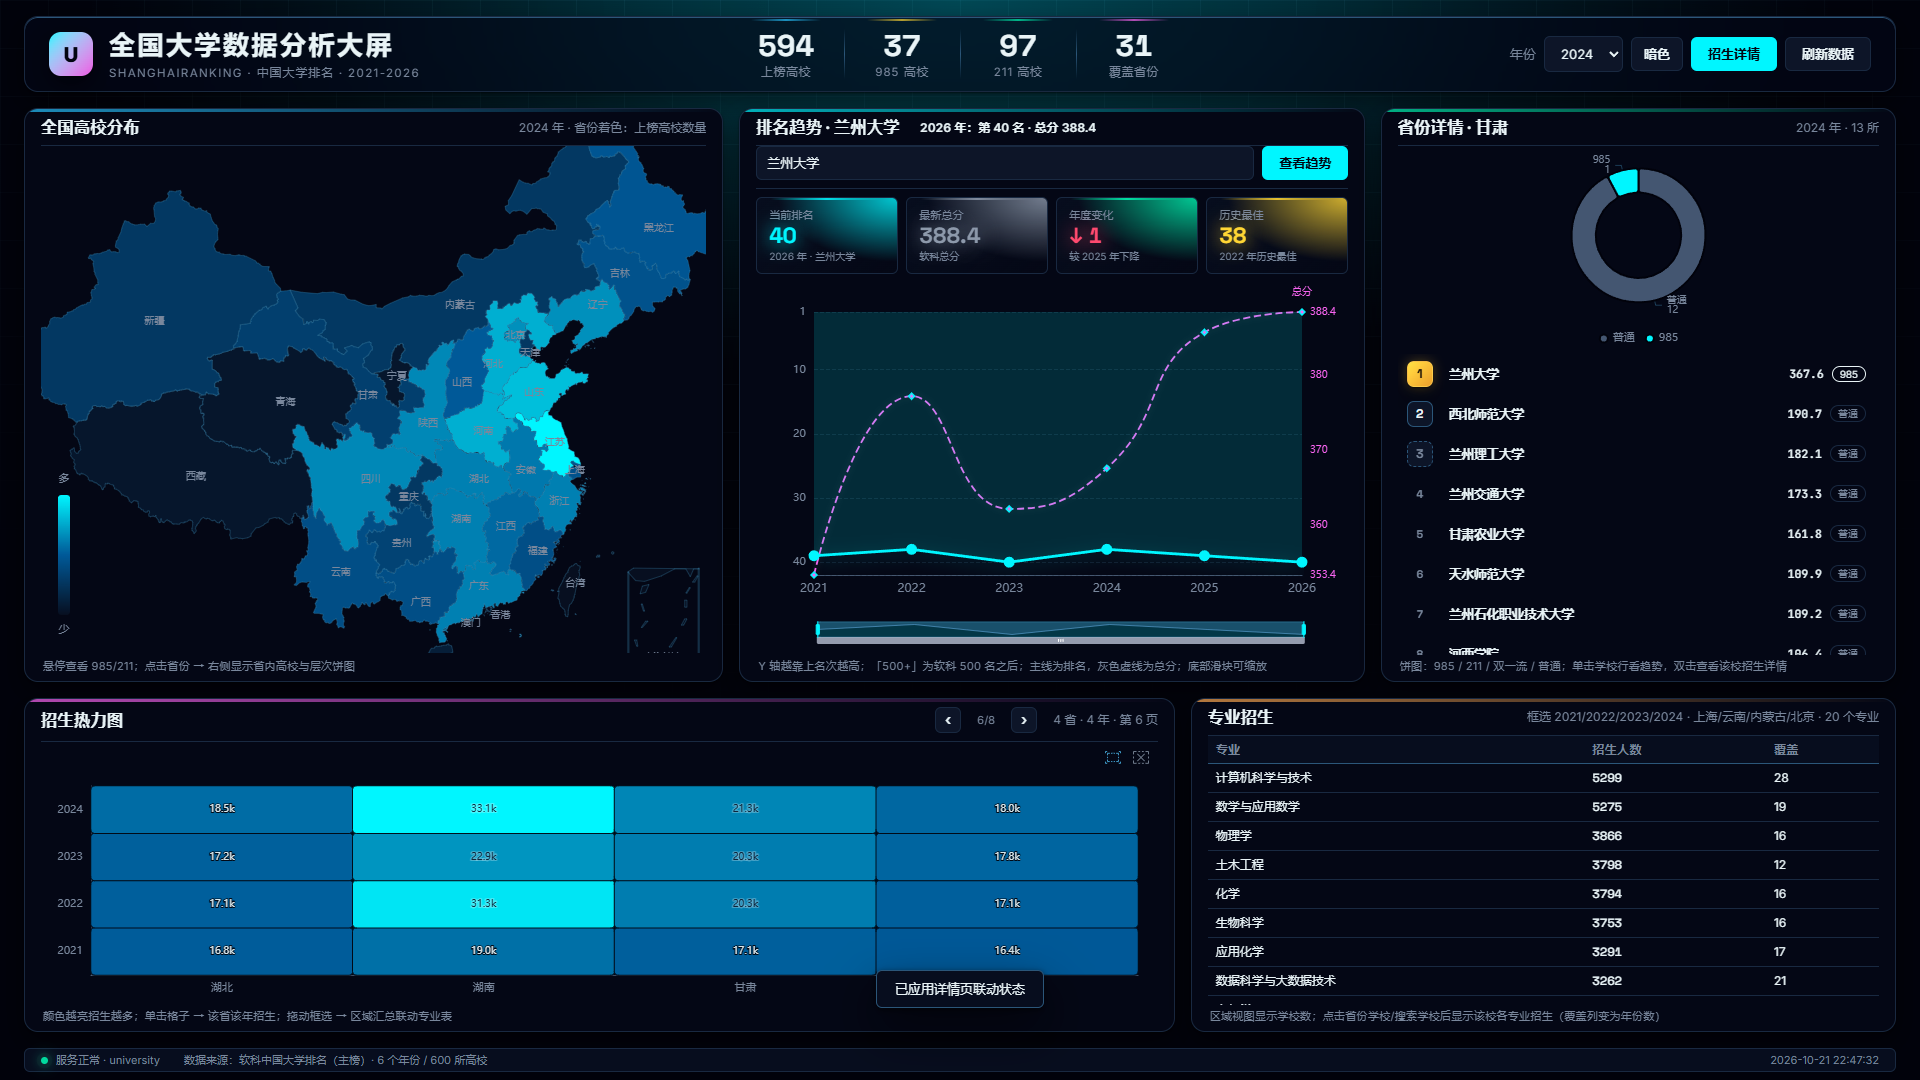
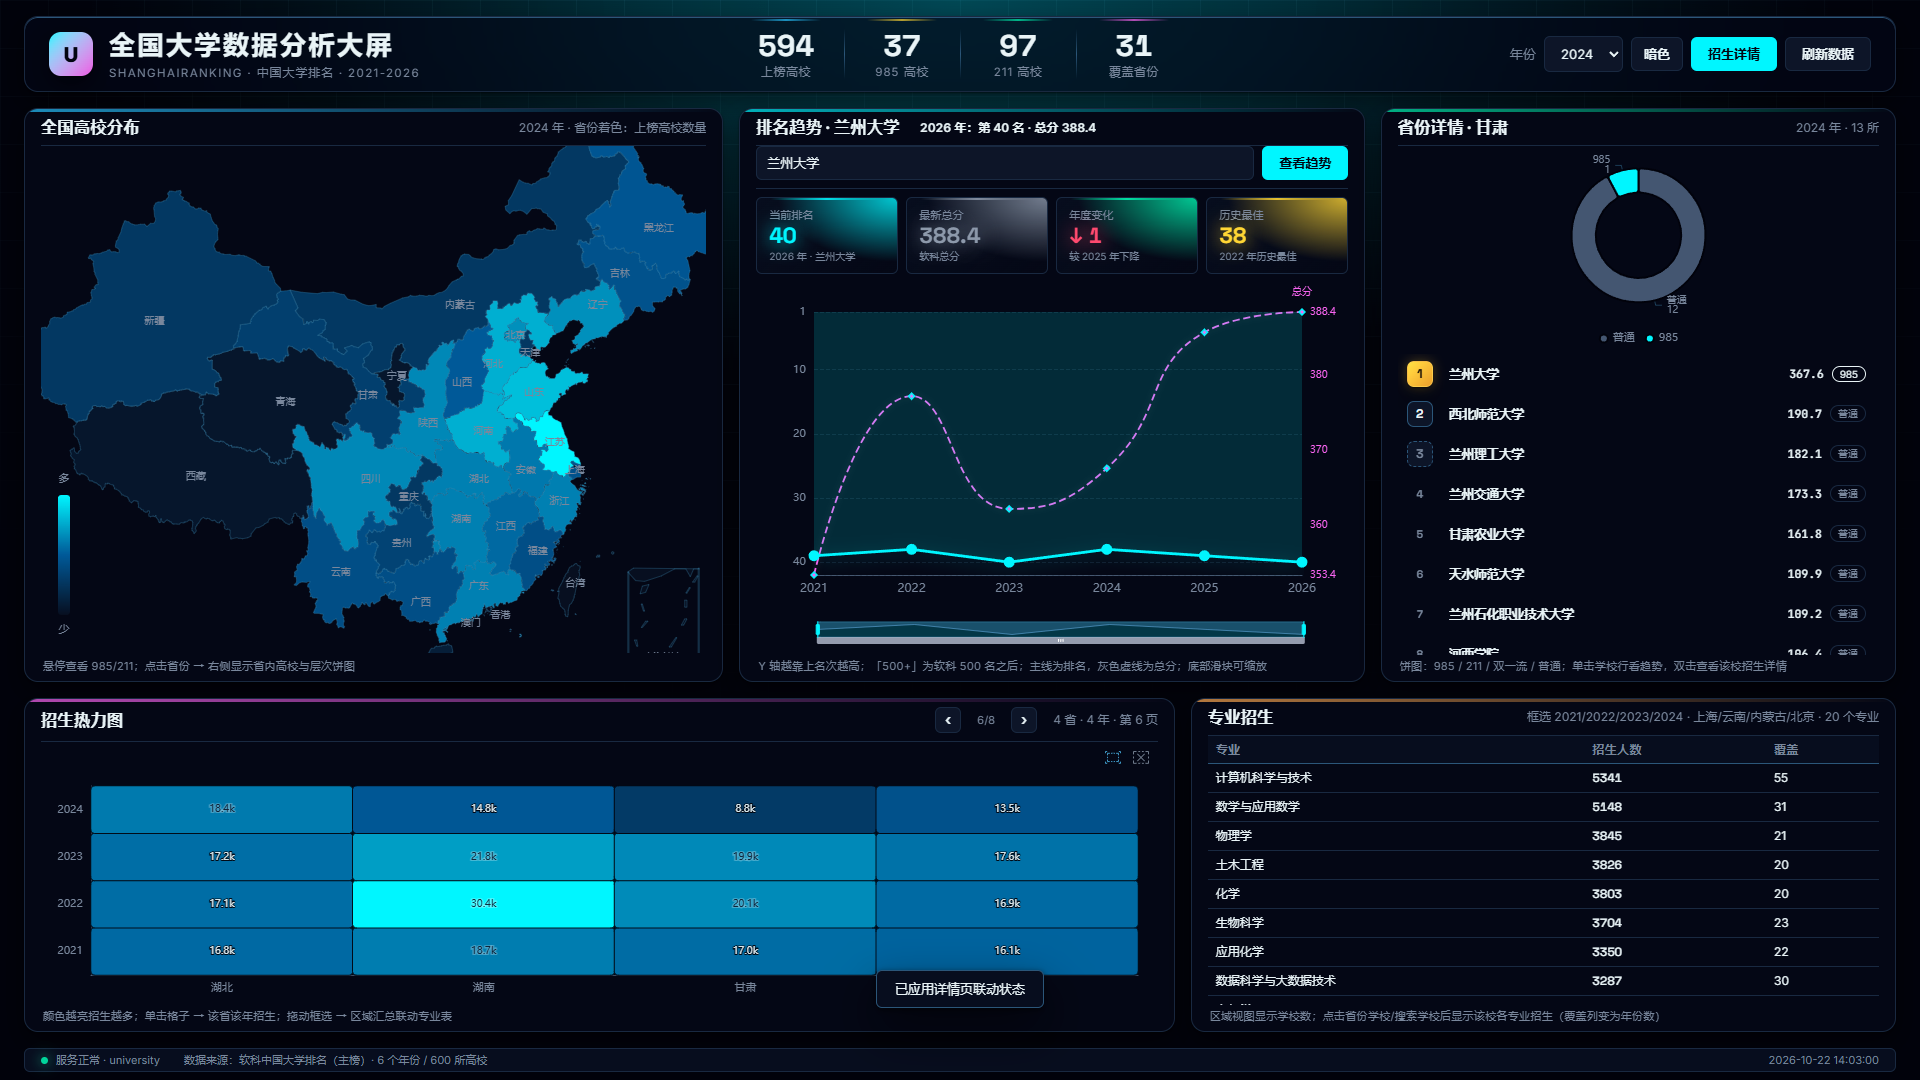
data: keep cross-province flows separate from heatmap
- admission_cross holds 2024 cross data used only by sankey

- admission 2024 keeps 22 cross provinces + 9 local fallback provinces

- loader supports --table admission_cross and province-level overlay

Changed region(s): [[0.1562, 0.7028, 0.4688, 0.7944], [0.9062, 0.9778, 0.9688, 1.0], [0.0938, 0.7333, 0.125, 0.7639]]

diff --git a/load_admission.py b/load_admission.py
@@ -165,22 +165,34 @@ def ensure_university(conn, name: str, province: str, type_: str, level: str,
     return int(cur.lastrowid)
 
 
-def load_to_mysql(df: pd.DataFrame, database: str, replace_year: int | None = None) -> dict:
+def load_to_mysql(df: pd.DataFrame, database: str, replace_year: int | None = None,
+                  overlay: bool = False, table: str = "admission") -> dict:
+    if table not in ("admission", "admission_cross"):
+        raise ValueError("非法表名")
     conn = connect()
     try:
         with conn.cursor() as cur:
             cur.execute("USE `%s`" % database)
-            if replace_year is None:
-                cur.execute("DELETE FROM admission")
+            cur.execute("CREATE TABLE IF NOT EXISTS `%s` LIKE admission" % table)
+            if overlay:
+                keys = list({(int(r.year), r.province)
+                             for r in df.itertuples(index=False)})
+                for start in range(0, len(keys), 200):
+                    chunk = keys[start:start + 200]
+                    clause = " OR ".join(["(year=%s AND province=%s)"] * len(chunk))
+                    flat = [value for key in chunk for value in key]
+                    cur.execute("DELETE FROM `%s` WHERE " % table + clause, flat)
+            elif replace_year is None:
+                cur.execute("DELETE FROM `%s`" % table)
             else:
-                cur.execute("DELETE FROM admission WHERE year = %s", (replace_year,))
-            cur.execute("ALTER TABLE admission AUTO_INCREMENT = 1")
+                cur.execute("DELETE FROM `%s` WHERE year = %%s" % table, (replace_year,))
+            cur.execute("ALTER TABLE `%s` AUTO_INCREMENT = 1" % table)
             records = [
                 (int(r.univ_id), int(r.year), r.province, r.major, int(r.count))
                 for r in df.itertuples(index=False)
             ]
             cur.executemany(
-                "INSERT INTO admission (univ_id, year, province, major, `count`) "
+                "INSERT INTO `%s` (univ_id, year, province, major, `count`) " % table +
                 "VALUES (%s, %s, %s, %s, %s)",
                 records,
             )
@@ -247,6 +259,10 @@ def main(argv=None) -> int:
     parser.add_argument("--dry-run", action="store_true")
     parser.add_argument("--replace-year", type=int, default=None,
                         help="只替换指定年份的招生数据（其余年份保留）")
+    parser.add_argument("--overlay", action="store_true",
+                        help="只覆盖输入数据中出现的 (年份, 省份)，其余保留")
+    parser.add_argument("--table", default="admission", choices=["admission", "admission_cross"],
+                        help="写入的目标表；桑基图使用 admission_cross")
     args = parser.parse_args(argv)
 
     paths = [Path(item.strip()) for item in args.csv.split(",") if item.strip()]
@@ -314,7 +330,7 @@ def main(argv=None) -> int:
         return 0
 
     try:
-        stats = load_to_mysql(df, args.database, args.replace_year)
+        stats = load_to_mysql(df, args.database, args.replace_year, overlay=args.overlay, table=args.table)
     except pymysql.MySQLError as exc:
         log("❌ 入库失败：%s" % exc)
         return 4

diff --git a/app.py b/app.py
@@ -510,6 +510,17 @@ def major_category_map() -> dict[str, str]:
     return _major_category_cache
 
 
+def sankey_table(year):
+    """跨省采集表优先；没有该年份时回退到 admission。"""
+    if year is not None:
+        try:
+            if query_all("SELECT 1 FROM admission_cross WHERE year = %s LIMIT 1", (year,)):
+                return "admission_cross"
+        except pymysql.MySQLError:
+            pass
+    return "admission"
+
+
 @app.get("/api/sankey")
 def api_sankey():
     """
@@ -557,8 +568,9 @@ def api_sankey():
         select = "a.major AS src, a.province AS dst, SUM(a.`count`) AS value"
         group = "a.major, a.province"
 
+    table = sankey_table(year)
     sql = (
-        "SELECT " + select + " FROM admission a "
+        "SELECT " + select + " FROM `%s` a " % table +
         "JOIN university u ON u.id = a.univ_id "
         "WHERE " + " AND ".join(where) + " "
         "GROUP BY " + group

diff --git a/docs/P2_专业流向与散点.md b/docs/P2_专业流向与散点.md
@@ -4,9 +4,9 @@
 
 ## 1. 数据
 
-- 2024 年跨省招生：原始 51,981 行，清洗入库 42,728 行，覆盖 100 所学校、22 个招生省份。
-- 2021–2023 年仍为原有“本省高校在本省招生”数据。
-- 2024 年跨省数据替换了同年的本省数据，其余年份保留；因此详情页默认 2024 年时桑基图有跨省流向。
+- 2024 年跨省招生：原始 51,981 行，清洗后 42,728 行，覆盖 100 所学校、22 个招生省份，单独存入 `admission_cross` 表。
+- 热力图/专业表使用的 `admission` 表：2024 年为“22 个有跨省数据的省份 + 9 个缺失省份保留本省数据”，共 45,664 行，31 省完整；2021–2023 年仍是本省口径。
+- 桑基图只读 `admission_cross`，因此只展示有跨省数据的 22 个省份；缺失的 9 个省份（山西、内蒙古、河南、云南、西藏、陕西、青海、宁夏、新疆）在桑基图中暂无流向。
 - 华北电力大学：北京校区对应排名主条目“华北电力大学”；保定校区单独建为“华北电力大学（保定）”（河北）。
 - 专业大类：`build_major_categories.py` 按关键词把 828 个专业归为 12 类 + 其他，输出 `data/major_categories.csv`。
 
@@ -41,7 +41,7 @@
 
 ## 6. 已知限制
 
-- 跨省数据只有 2024 年，且只覆盖 22 个招生省份；其余年份/省份仍是本省口径或暂无数据。
+- 跨省数据只有 2024 年，且只覆盖 22 个招生省份；缺失 9 省的桑基图暂无数据。
 - 默认只画 8×8 个节点（约 100 条连线），不是严格 Top 120；节点上限在 `dashboard.html` 的 `slice(0, 8)` 可调。
 - 图表全部在详情页，首页只保留入口按钮，没有新增表格。
 
